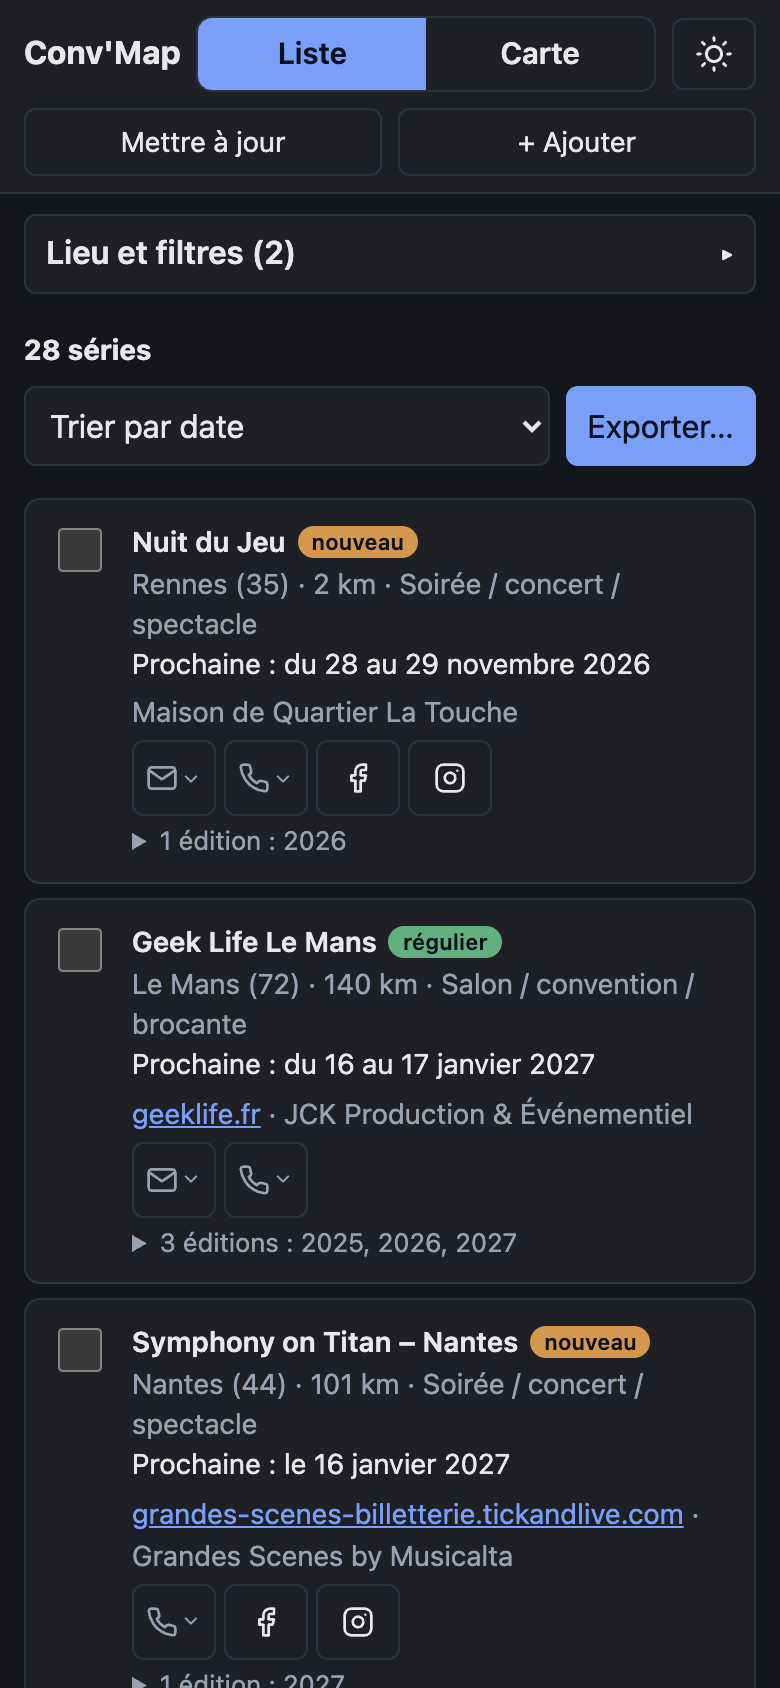
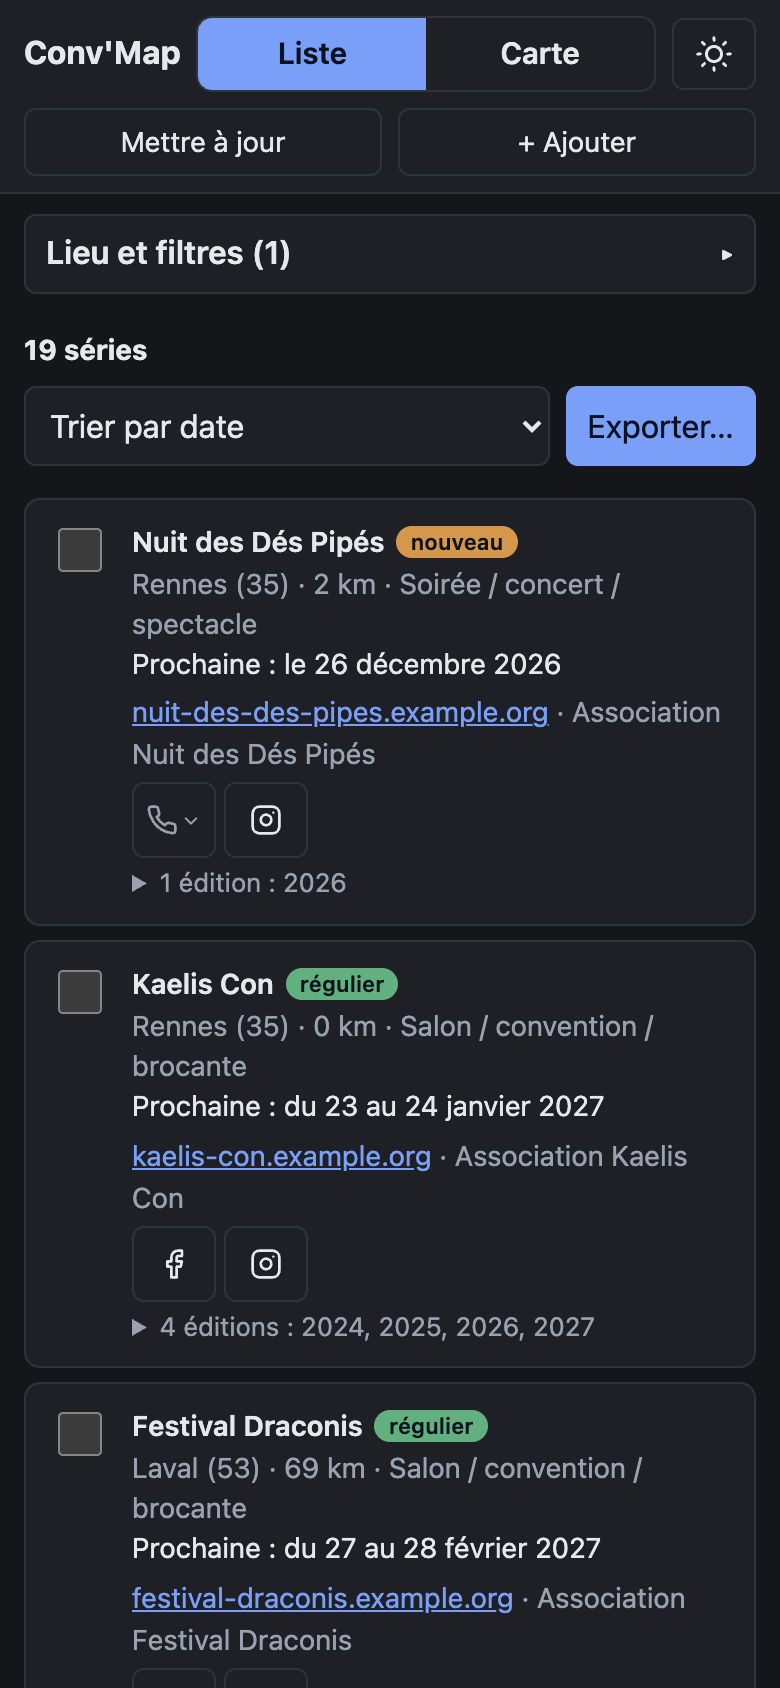
Add a demo dataset of invented events; retake the README screenshots on it
The screenshots showed real events and organizers, which amounts to
advertising them. `npm run demo` builds a base of made-up events around
Rennes — names, organizers and contacts are all invented, only the towns
exist — and serves the page on it. The README's screenshots now come
from that base.

The server reads its base path from AGENDA_DB when it is set.

diff --git a/README.md b/README.md
@@ -59,6 +59,10 @@ Puis ouvrir http://localhost:4180 et cliquer **Mettre à jour depuis l'agenda**
 un fichier SQLite et ne demande aucun lien d'accès. `PORT=8093 npm start` pour
 un autre port.
 
+Pour l'essayer sans rien télécharger de l'agenda, `npm run demo` lance la page
+sur le port 4182 avec une vingtaine d'évènements inventés autour de Rennes —
+c'est avec eux que les captures de cette page sont faites.
+
 Dans un devcontainer qui ne relaie aucun port de lui-même, relayer le port à
 la main : panneau « Ports » de VS Code > « Forward a Port » > 4180.
 
